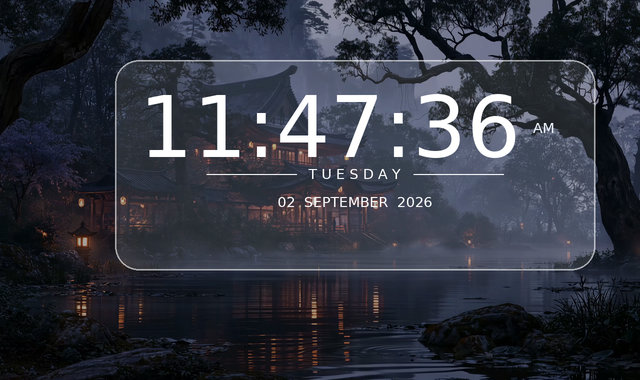
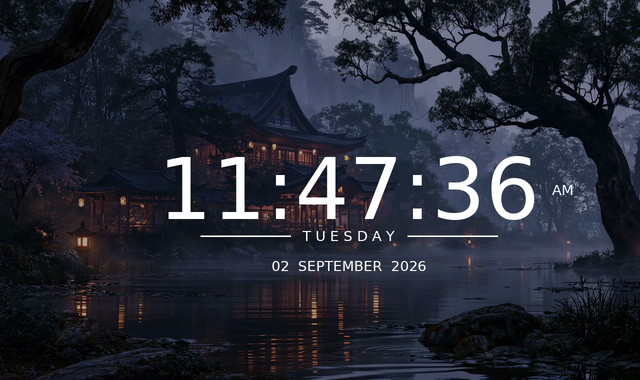
feat: 100% frameless 3D glass clock positioned at slight bottom over lake background

diff --git a/clock.html b/clock.html
@@ -2397,11 +2397,12 @@
 
             /* ═══ THEME 1: MISTY LAKESIDE PAVILION (RIGHT ALIGNED FROSTED GLASS) ═══ */
             .theme-glass_misty_pavilion #clock-container {
-            /* ═══ MISTY LAKESIDE PAVILION: FRAMELESS RIGHT-ALIGNED 3D GLASS CLOCK ═══ */
+            /* ═══ MISTY LAKESIDE PAVILION: FRAMELESS 3D GLASS CLOCK (SLIGHT BOTTOM RIGHT) ═══ */
             .theme-glass_misty_pavilion #clock-container {
                 align-items: flex-end !important;
-                justify-content: center !important;
-                padding-right: 8vw !important;
+                justify-content: flex-end !important;
+                padding-right: 6vw !important;
+                padding-bottom: 10vh !important;
                 max-width: 90vw !important;
             }
 
@@ -2419,18 +2420,17 @@
             .theme-glass_anime_hydrangea #glass-clock-display {
                 display: flex !important;
                 flex-direction: column !important;
-                align-items: center !important;
-                background: rgba(255, 255, 255, 0.16) !important;
-                border: 1.5px solid rgba(255, 255, 255, 0.65) !important;
-                backdrop-filter: blur(22px) saturate(160%) !important;
-                -webkit-backdrop-filter: blur(22px) saturate(160%) !important;
-                border-radius: 28px !important;
-                padding: clamp(18px, 2.5vw, 32px) clamp(24px, 3.2vw, 48px) !important;
-                box-shadow: 
-                    0 16px 48px rgba(0, 0, 0, 0.25),
-                    inset 0 2px 0 rgba(255, 255, 255, 0.60),
-                    0 0 35px rgba(255, 255, 255, 0.25) !important;
+                background: transparent !important;
+                border: none !important;
+                box-shadow: none !important;
+                backdrop-filter: none !important;
+                -webkit-backdrop-filter: none !important;
+                padding: 0 !important;
                 gap: 0px !important;
+            }
+
+            .theme-glass_misty_pavilion #glass-clock-display {
+                align-items: flex-end !important;
             }
 
             .theme-glass_misty_pavilion .glass-time-row,
@@ -2516,16 +2516,17 @@
                 max-width: 580px !important;
             }
 
-            /* ═══ ANIME GIRL HYDRANGEA GARDEN: FRAMELESS LEFT-ALIGNED 3D GLASS CLOCK ═══ */
+            /* ═══ ANIME GIRL HYDRANGEA GARDEN: FRAMELESS LEFT-ALIGNED 3D GLASS CLOCK (SLIGHT BOTTOM LEFT) ═══ */
             .theme-glass_anime_hydrangea #clock-container {
                 align-items: flex-start !important;
-                justify-content: center !important;
-                padding-left: 8vw !important;
+                justify-content: flex-end !important;
+                padding-left: 6vw !important;
+                padding-bottom: 10vh !important;
                 max-width: 95vw !important;
             }
 
             .theme-glass_anime_hydrangea #glass-clock-display {
-                align-items: center !important;
+                align-items: flex-start !important;
             }
 
             .theme-glass_anime_hydrangea .gc-num {

diff --git a/index.html b/index.html
@@ -2397,11 +2397,12 @@
 
             /* ═══ THEME 1: MISTY LAKESIDE PAVILION (RIGHT ALIGNED FROSTED GLASS) ═══ */
             .theme-glass_misty_pavilion #clock-container {
-            /* ═══ MISTY LAKESIDE PAVILION: FRAMELESS RIGHT-ALIGNED 3D GLASS CLOCK ═══ */
+            /* ═══ MISTY LAKESIDE PAVILION: FRAMELESS 3D GLASS CLOCK (SLIGHT BOTTOM RIGHT) ═══ */
             .theme-glass_misty_pavilion #clock-container {
                 align-items: flex-end !important;
-                justify-content: center !important;
-                padding-right: 8vw !important;
+                justify-content: flex-end !important;
+                padding-right: 6vw !important;
+                padding-bottom: 10vh !important;
                 max-width: 90vw !important;
             }
 
@@ -2419,18 +2420,17 @@
             .theme-glass_anime_hydrangea #glass-clock-display {
                 display: flex !important;
                 flex-direction: column !important;
-                align-items: center !important;
-                background: rgba(255, 255, 255, 0.16) !important;
-                border: 1.5px solid rgba(255, 255, 255, 0.65) !important;
-                backdrop-filter: blur(22px) saturate(160%) !important;
-                -webkit-backdrop-filter: blur(22px) saturate(160%) !important;
-                border-radius: 28px !important;
-                padding: clamp(18px, 2.5vw, 32px) clamp(24px, 3.2vw, 48px) !important;
-                box-shadow: 
-                    0 16px 48px rgba(0, 0, 0, 0.25),
-                    inset 0 2px 0 rgba(255, 255, 255, 0.60),
-                    0 0 35px rgba(255, 255, 255, 0.25) !important;
+                background: transparent !important;
+                border: none !important;
+                box-shadow: none !important;
+                backdrop-filter: none !important;
+                -webkit-backdrop-filter: none !important;
+                padding: 0 !important;
                 gap: 0px !important;
+            }
+
+            .theme-glass_misty_pavilion #glass-clock-display {
+                align-items: flex-end !important;
             }
 
             .theme-glass_misty_pavilion .glass-time-row,
@@ -2516,16 +2516,17 @@
                 max-width: 580px !important;
             }
 
-            /* ═══ ANIME GIRL HYDRANGEA GARDEN: FRAMELESS LEFT-ALIGNED 3D GLASS CLOCK ═══ */
+            /* ═══ ANIME GIRL HYDRANGEA GARDEN: FRAMELESS LEFT-ALIGNED 3D GLASS CLOCK (SLIGHT BOTTOM LEFT) ═══ */
             .theme-glass_anime_hydrangea #clock-container {
                 align-items: flex-start !important;
-                justify-content: center !important;
-                padding-left: 8vw !important;
+                justify-content: flex-end !important;
+                padding-left: 6vw !important;
+                padding-bottom: 10vh !important;
                 max-width: 95vw !important;
             }
 
             .theme-glass_anime_hydrangea #glass-clock-display {
-                align-items: center !important;
+                align-items: flex-start !important;
             }
 
             .theme-glass_anime_hydrangea .gc-num {

diff --git a/mobile/app/src/main/assets/index.html b/mobile/app/src/main/assets/index.html
@@ -2397,11 +2397,12 @@
 
             /* ═══ THEME 1: MISTY LAKESIDE PAVILION (RIGHT ALIGNED FROSTED GLASS) ═══ */
             .theme-glass_misty_pavilion #clock-container {
-            /* ═══ MISTY LAKESIDE PAVILION: FRAMELESS RIGHT-ALIGNED 3D GLASS CLOCK ═══ */
+            /* ═══ MISTY LAKESIDE PAVILION: FRAMELESS 3D GLASS CLOCK (SLIGHT BOTTOM RIGHT) ═══ */
             .theme-glass_misty_pavilion #clock-container {
                 align-items: flex-end !important;
-                justify-content: center !important;
-                padding-right: 8vw !important;
+                justify-content: flex-end !important;
+                padding-right: 6vw !important;
+                padding-bottom: 10vh !important;
                 max-width: 90vw !important;
             }
 
@@ -2419,18 +2420,17 @@
             .theme-glass_anime_hydrangea #glass-clock-display {
                 display: flex !important;
                 flex-direction: column !important;
-                align-items: center !important;
-                background: rgba(255, 255, 255, 0.16) !important;
-                border: 1.5px solid rgba(255, 255, 255, 0.65) !important;
-                backdrop-filter: blur(22px) saturate(160%) !important;
-                -webkit-backdrop-filter: blur(22px) saturate(160%) !important;
-                border-radius: 28px !important;
-                padding: clamp(18px, 2.5vw, 32px) clamp(24px, 3.2vw, 48px) !important;
-                box-shadow: 
-                    0 16px 48px rgba(0, 0, 0, 0.25),
-                    inset 0 2px 0 rgba(255, 255, 255, 0.60),
-                    0 0 35px rgba(255, 255, 255, 0.25) !important;
+                background: transparent !important;
+                border: none !important;
+                box-shadow: none !important;
+                backdrop-filter: none !important;
+                -webkit-backdrop-filter: none !important;
+                padding: 0 !important;
                 gap: 0px !important;
+            }
+
+            .theme-glass_misty_pavilion #glass-clock-display {
+                align-items: flex-end !important;
             }
 
             .theme-glass_misty_pavilion .glass-time-row,
@@ -2516,16 +2516,17 @@
                 max-width: 580px !important;
             }
 
-            /* ═══ ANIME GIRL HYDRANGEA GARDEN: FRAMELESS LEFT-ALIGNED 3D GLASS CLOCK ═══ */
+            /* ═══ ANIME GIRL HYDRANGEA GARDEN: FRAMELESS LEFT-ALIGNED 3D GLASS CLOCK (SLIGHT BOTTOM LEFT) ═══ */
             .theme-glass_anime_hydrangea #clock-container {
                 align-items: flex-start !important;
-                justify-content: center !important;
-                padding-left: 8vw !important;
+                justify-content: flex-end !important;
+                padding-left: 6vw !important;
+                padding-bottom: 10vh !important;
                 max-width: 95vw !important;
             }
 
             .theme-glass_anime_hydrangea #glass-clock-display {
-                align-items: center !important;
+                align-items: flex-start !important;
             }
 
             .theme-glass_anime_hydrangea .gc-num {

diff --git a/generate_theme_screenshots.py b/generate_theme_screenshots.py
@@ -517,32 +517,20 @@ def render_theme_screenshot(theme_key, theme_info, output_dir="assets"):
 
 
         if theme_key in ["glass_anime_hydrangea", "glass_misty_pavilion"]:
-            # Frosted glass card container box
-            card_w = int(480 * scale)
-            card_h = int(210 * scale)
-            if theme_key == "glass_anime_hydrangea":
-                card_x = int(45 * scale)
-            else:
-                card_x = w - int(45 * scale) - card_w
-            card_y = int(60 * scale)
-            card_r = int(24 * scale)
-
-            # Draw translucent white glass card box with proper alpha blending
-            glass_overlay = Image.new("RGBA", (w, h), (0, 0, 0, 0))
-            gdraw = ImageDraw.Draw(glass_overlay)
-            gdraw.rounded_rectangle([card_x, card_y, card_x + card_w, card_y + card_h], radius=card_r, fill=(255, 255, 255, 30), outline=(255, 255, 255, 160), width=int(1.8 * scale))
-            img = Image.alpha_composite(img.convert("RGBA"), glass_overlay).convert("RGB")
-            draw = ImageDraw.Draw(img)
-
-            # Digits inside glass card box
+            # Frameless 3D Glass digits at slight bottom position
             full_time_str = "11:47:36"
             ftb = draw.textbbox((0, 0), full_time_str, font=font_large)
             ftw = ftb[2] - ftb[0]
             fth = ftb[3] - ftb[1]
 
-            clock_x = card_x + (card_w - ftw) // 2 - int(25 * scale)
-            clock_y = card_y + int(18 * scale)
+            if theme_key == "glass_anime_hydrangea":
+                clock_x = int(50 * scale)
+            else:
+                clock_x = w - int(50 * scale) - ftw - int(50 * scale)
 
+            clock_y = h - int(240 * scale)
+
+            # Draw sleek 3D glass digits
             draw.text((clock_x, clock_y), full_time_str, font=font_large, fill=(255, 255, 255, 255))
             draw.text((clock_x + ftw + int(12 * scale), clock_y + int(42 * scale)), ampm_str, font=font_sub, fill=(240, 248, 255, 240))
 
@@ -550,18 +538,18 @@ def render_theme_screenshot(theme_key, theme_info, output_dir="assets"):
             line_y = clock_y + fth + int(32 * scale)
             db = draw.textbbox((0, 0), day_str, font=font_sub)
             dw = db[2] - db[0]
-            day_x = card_x + (card_w - dw) // 2
+            day_x = clock_x + (ftw - dw) // 2
 
             line_len = int(90 * scale)
-            draw.line([(day_x - line_len - int(12 * scale), line_y), (day_x - int(12 * scale), line_y)], fill=(255, 255, 255, 140), width=int(1.2 * scale))
+            draw.line([(day_x - line_len - int(12 * scale), line_y), (day_x - int(12 * scale), line_y)], fill=(255, 255, 255, 160), width=int(1.5 * scale))
             draw.text((day_x, line_y - int(8 * scale)), day_str, font=font_sub, fill=(255, 255, 255, 240))
-            draw.line([(day_x + dw + int(12 * scale), line_y), (day_x + dw + line_len + int(12 * scale), line_y)], fill=(255, 255, 255, 140), width=int(1.2 * scale))
+            draw.line([(day_x + dw + int(12 * scale), line_y), (day_x + dw + line_len + int(12 * scale), line_y)], fill=(255, 255, 255, 160), width=int(1.5 * scale))
 
             # Date text
             dtb = draw.textbbox((0, 0), date_str, font=font_sub)
             dtw = dtb[2] - dtb[0]
-            date_x = card_x + (card_w - dtw) // 2
-            date_y = line_y + int(20 * scale)
+            date_x = clock_x + (ftw - dtw) // 2
+            date_y = line_y + int(22 * scale)
             draw.text((date_x, date_y), date_str, font=font_sub, fill=(255, 255, 255, 220))
 
     else:
